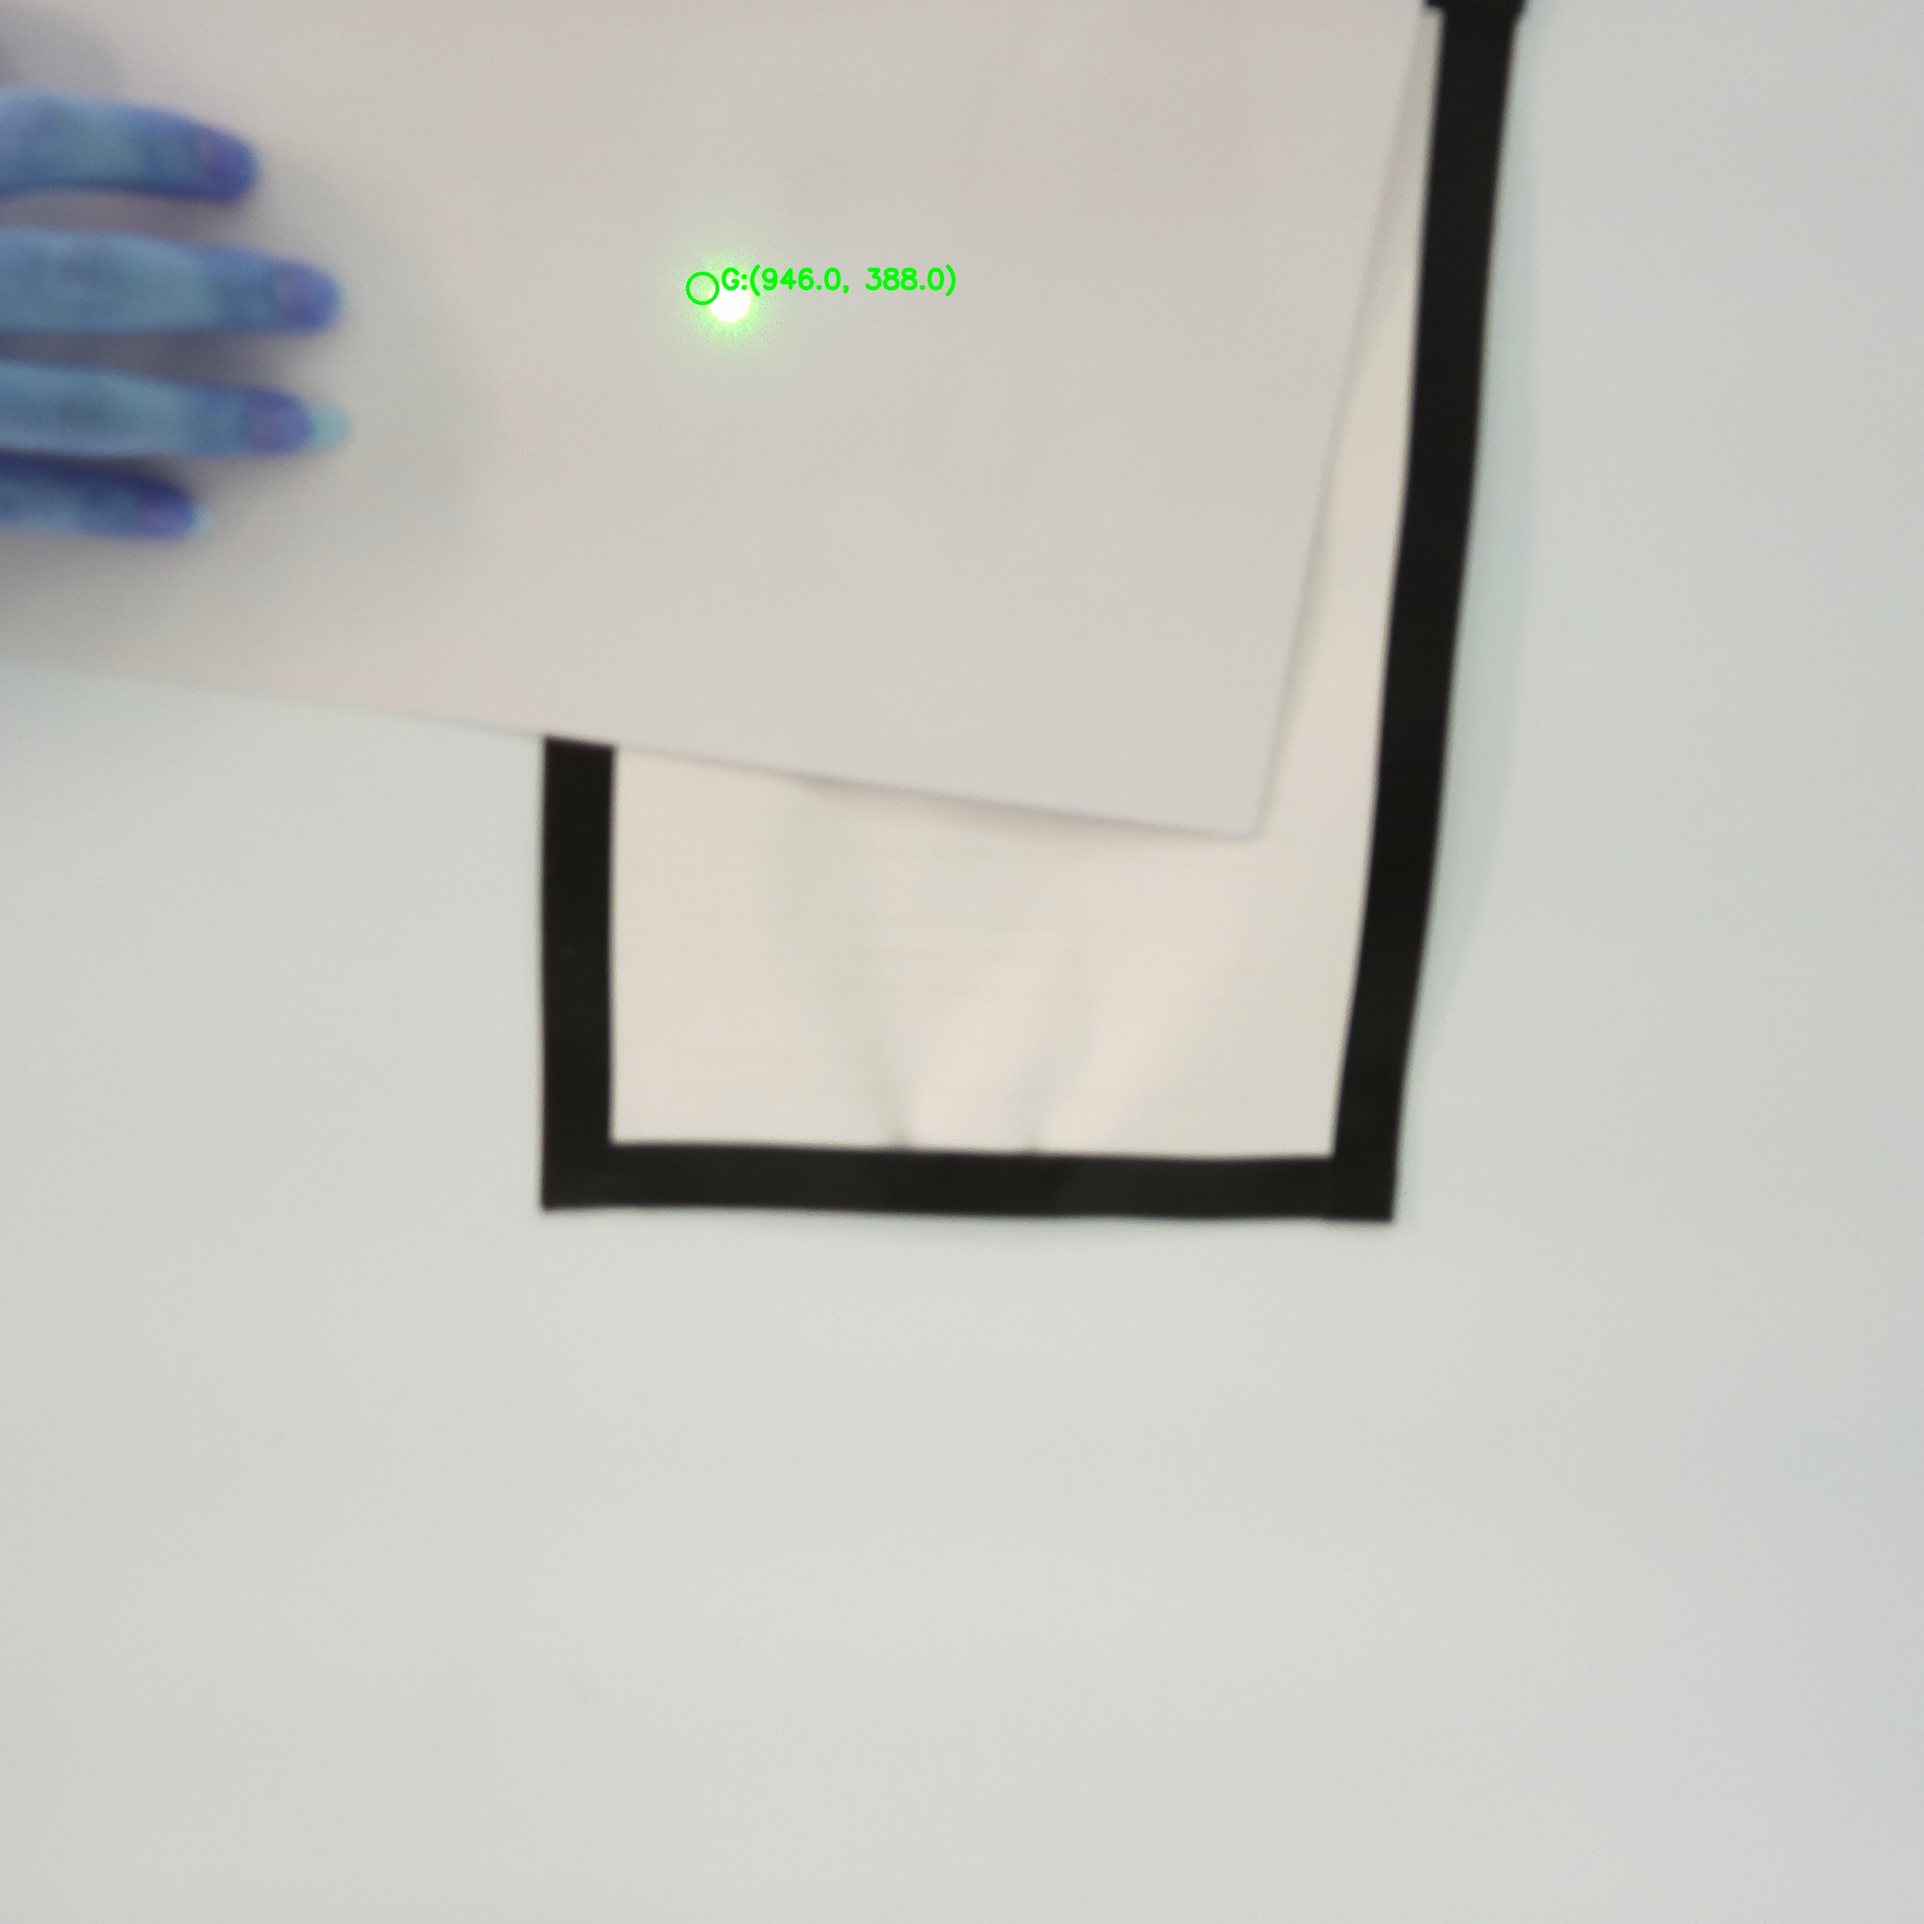
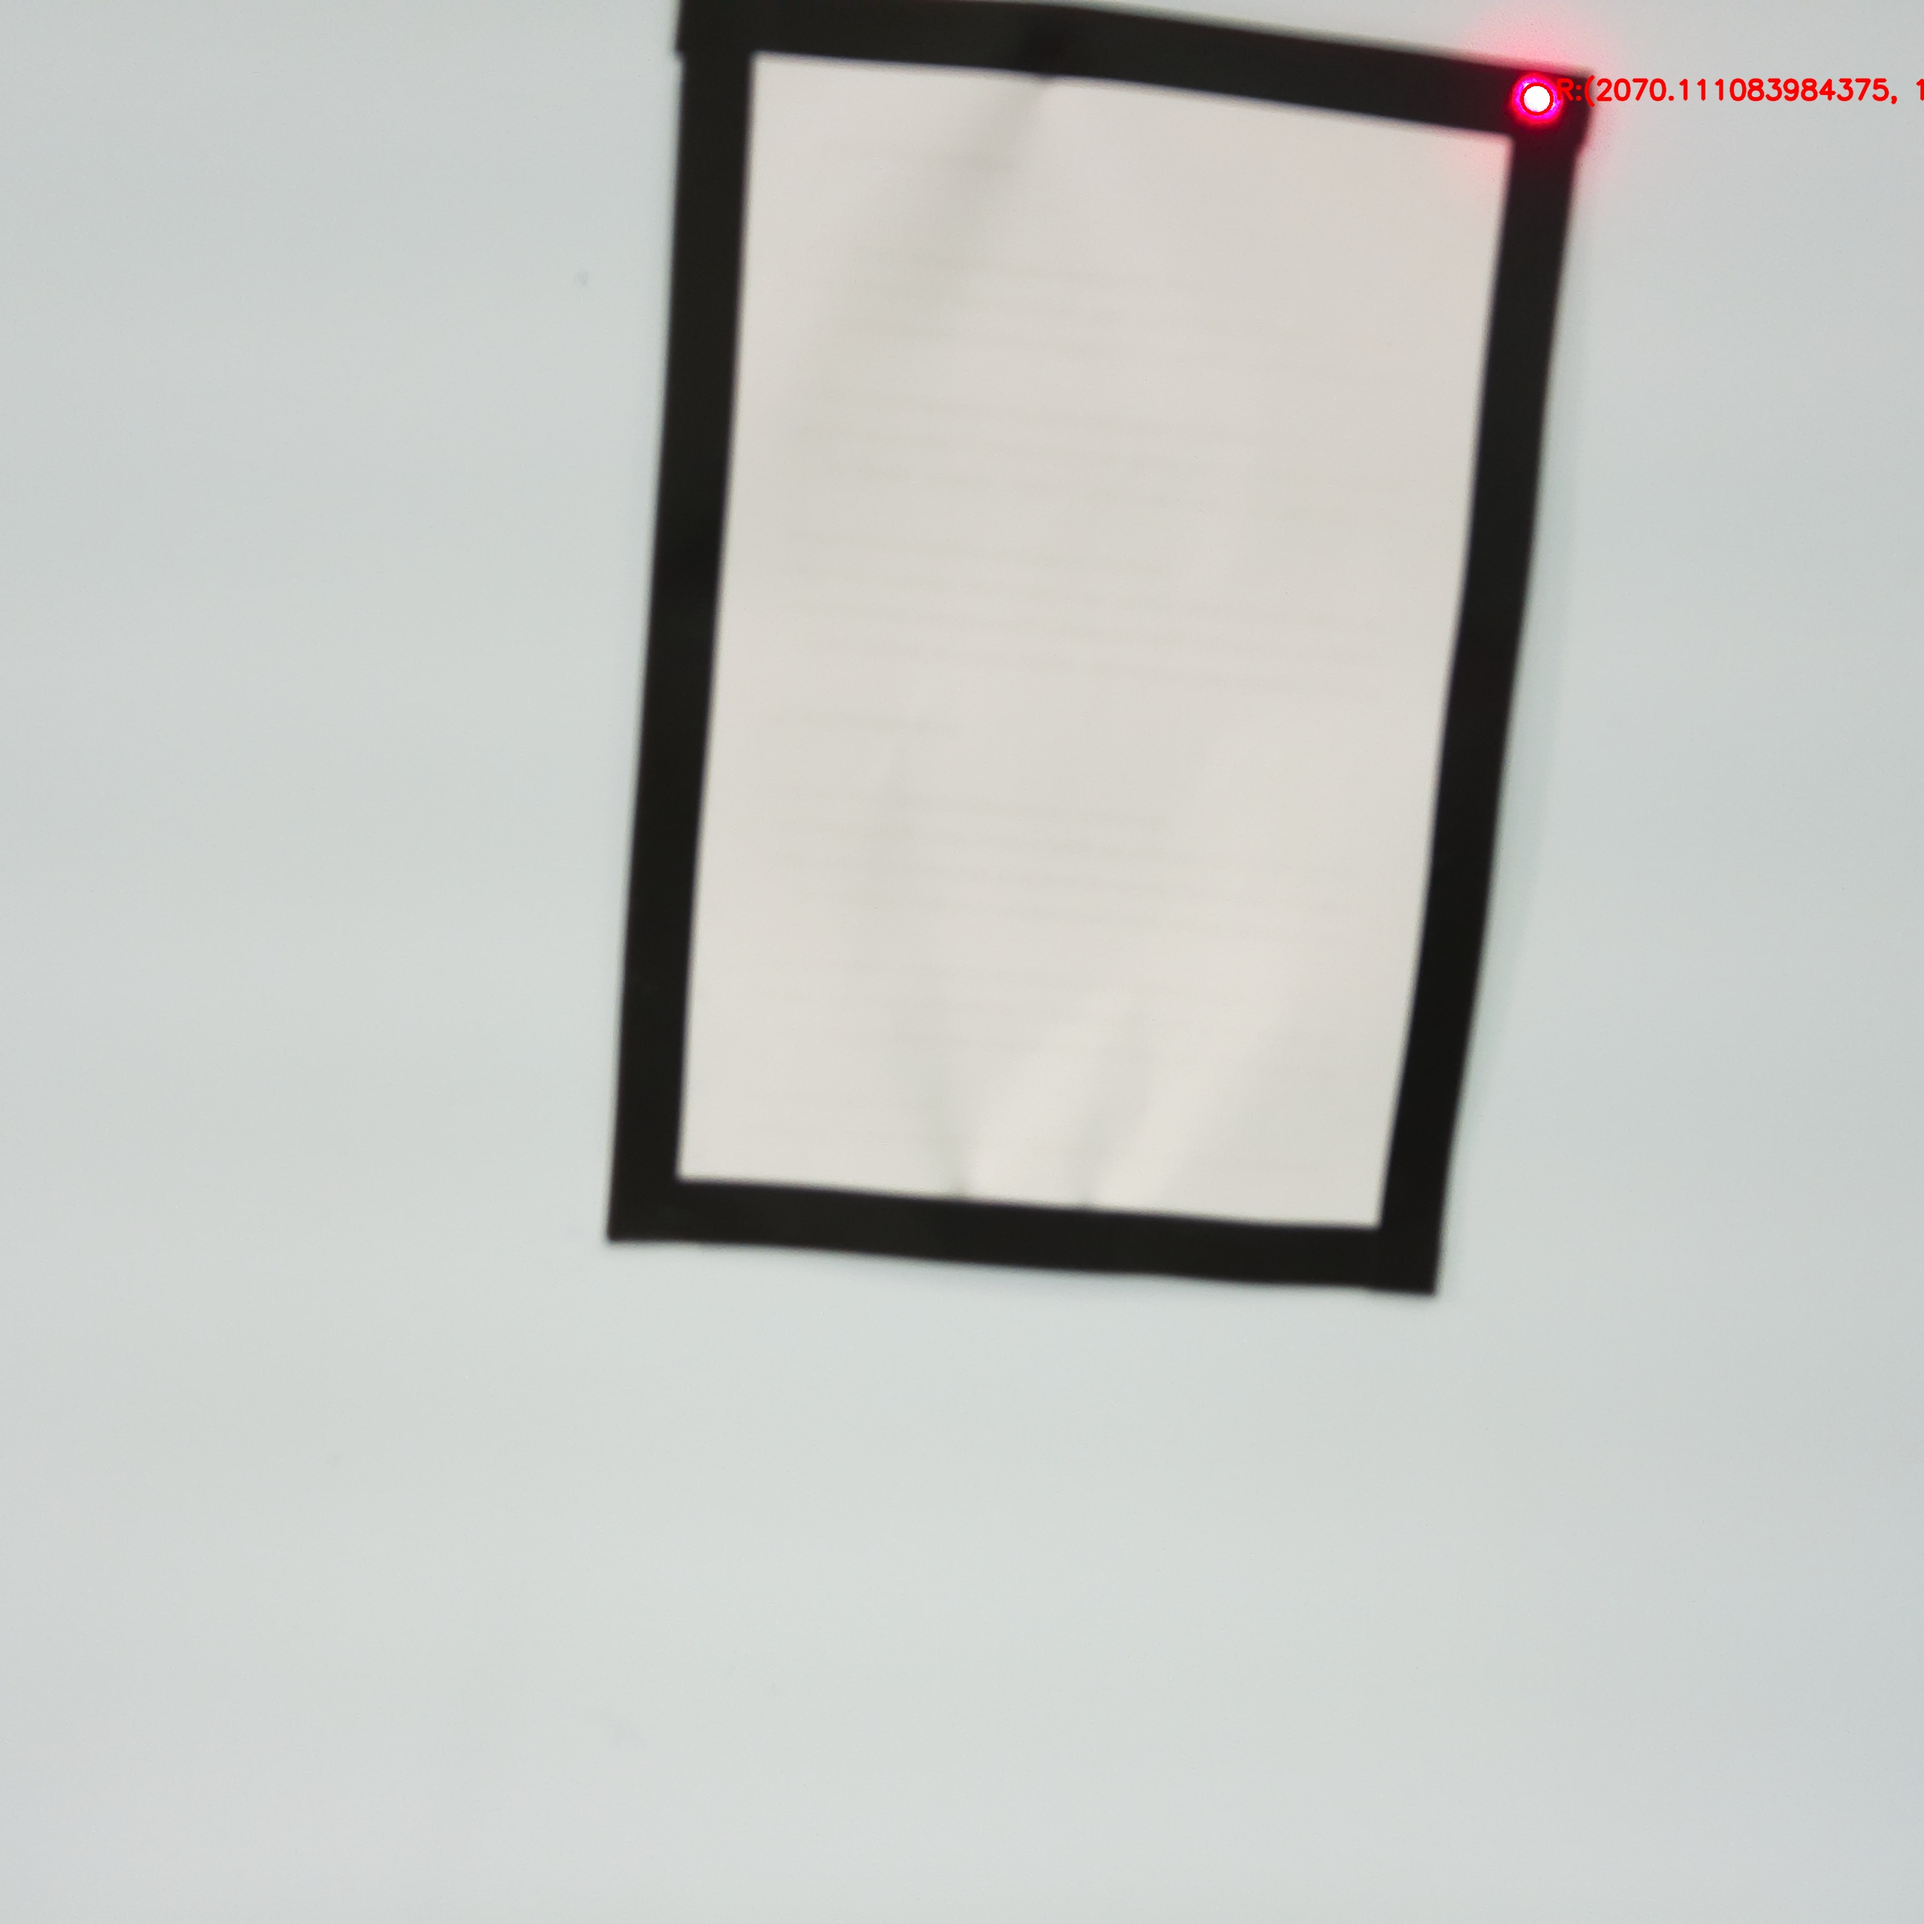
完善视觉激光检测

diff --git a/scripts/task/test.py b/scripts/task/test.py
@@ -1,0 +1,123 @@
+#!/usr/bin/env python3
+# -*- coding: utf-8 -*-
+"""
+capture_and_analyze_v.py
+------------------------
+使用树莓派 Picamera2 拍一张照片 → 裁剪成正方形 → 提取 HSV 的 V 通道并保存：
+  • v_channel_gray.png   —— 纯灰度亮度图
+  • v_channel_color.png  —— 伪彩色 + 颜色条
+  • v_values.csv         —— （可选）像素 V 值表
+可选同时保留原图 original.jpg 与裁剪图 cropped.jpg 以便调试。
+"""
+
+from typing import Tuple
+import time
+import cv2
+import numpy as np
+import matplotlib
+matplotlib.use("Agg")              # 关掉 GUI
+import matplotlib.pyplot as plt
+from picamera2 import Picamera2
+from pathlib import Path
+import argparse
+import sys
+
+# ---------- 工具函数 ----------
+def crop_image(img: np.ndarray, center: Tuple[int, int], width: int, height: int) -> np.ndarray:
+    """在 img 上按 (center, width, height) 裁剪并返回 ROI（新数组，不共享内存）"""
+    x, y = center
+    h, w = img.shape[:2]
+    w2, h2 = width // 2, height // 2
+    x1, y1 = max(0, x - w2), max(0, y - h2)
+    x2, y2 = min(w, x + w2), min(h, y + h2)
+    return img[y1:y2, x1:x2].copy()
+
+def capture_image(delay: float = 2.0) -> np.ndarray:
+    """使用 Picamera2 拍照并返回 ndarray (BGR)"""
+    cam = Picamera2()
+    cam.configure(cam.create_still_configuration())
+    cam.start()
+    time.sleep(delay)              # 让传感器和 AE 稳定
+    frame = cam.capture_array()    # 默认 RGB888
+    cam.close()
+    return cv2.cvtColor(frame, cv2.COLOR_RGB2BGR)
+
+# ---------- 主逻辑 ----------
+def main():
+    ap = argparse.ArgumentParser(description="Capture image, analyze V channel, save outputs.")
+    ap.add_argument("-o", "--outdir", default=".",
+                    help="输出目录（默认当前目录）")
+    ap.add_argument("--csv", action="store_true",
+                    help="同时保存 v_values.csv")
+    ap.add_argument("--keep-src", action="store_true",
+                    help="保留 original.jpg / cropped.jpg 以便调试")
+    ap.add_argument("--resize", type=int, default=480,
+                    help="裁剪后缩放到的边长像素，0=不缩放（默认 480）")
+
+    ap.add_argument("--v-th", type=int, default=240,
+                    help="阈值 (0–255)。V 值小于此值的像素会被置黑并另存图片")
+
+    args = ap.parse_args()
+
+    out_dir = Path(args.outdir)
+    out_dir.mkdir(parents=True, exist_ok=True)
+
+    # 1) 拍照
+    print("📷 Capturing image...")
+    original = capture_image()
+
+    # 2) 裁剪成正方形（取最短边）
+    h, w = original.shape[:2]
+    side = min(h, w)
+    cropped = crop_image(original, (w // 2, h // 2), side, side)
+
+    # 3) 可选缩放
+    if args.resize > 0:
+        cropped = cv2.resize(cropped, (args.resize, args.resize))
+
+    # 4) 保存调试图（可选）
+    if args.keep_src:
+        cv2.imwrite(str(out_dir / "original.jpg"), original)
+        cv2.imwrite(str(out_dir / "cropped.jpg"), cropped)
+
+    # 5) HSV ➜ V
+    v = cv2.cvtColor(cropped, cv2.COLOR_BGR2HSV)[:, :, 2]  # uint8 (0–255)
+
+    # 6) 保存灰度 PNG（V 值即亮度）
+    gray_png = out_dir / "v_channel_gray.png"
+    cv2.imwrite(str(gray_png), v)
+
+    # 7) 保存伪彩色 PNG（含颜色条）
+    plt.figure(figsize=(6, 6))
+    plt.imshow(v, cmap="viridis", vmin=0, vmax=255)
+    plt.axis("off")
+    cbar = plt.colorbar()
+    cbar.set_label("V value (0–255)")
+    plt.tight_layout()
+    color_png = out_dir / "v_channel_color.png"
+    plt.savefig(color_png, dpi=300)
+    plt.close()
+
+    # 7.5) 生成“低亮度置黑”图像
+    v_th = args.v_th
+    # 创建原图副本并在 BGR 空间掩蔽
+    masked_bgr = cropped.copy()
+    masked_bgr[v < v_th] = (0, 0, 0)          # BGR 置黑
+    th_png = out_dir / f"v_mask_below_{v_th}.png"
+    cv2.imwrite(str(th_png), masked_bgr)
+
+
+
+    # 8) 可选 CSV
+    extra = ""
+    if args.csv:
+        csv_path = out_dir / "v_values.csv"
+        np.savetxt(csv_path, v, fmt="%d", delimiter=",")
+        extra = f"、{csv_path.name}"
+
+    print(f"✅ 已保存 {gray_png.name}、{color_png.name}{extra} 到 {out_dir}")
+    print(f"✅ 已保存 {gray_png.name}、{color_png.name}、{th_png.name}{extra} 到 {out_dir}")
+
+
+if __name__ == "__main__":
+    main()

diff --git a/scripts/task/detect_laser.py b/scripts/task/detect_laser.py
@@ -6,12 +6,13 @@ import os
 
 # 定义HSV颜色阈值范围
 # 绿色激光HSV范围 (H约60度，S和V要求较高)
-LOWER_GREEN = np.array([40, 100, 50])   # 下界: H>=40, S>=100, V>=50
+LOWER_GREEN = np.array([40, 40, 235])   # 下界: H>=40, S>=100, 
 UPPER_GREEN = np.array([80, 255, 255])  # 上界: H<=80
+
 # 红色激光HSV范围需要考虑红色环绕Hue轴两端的情况
-LOWER_RED1 = np.array([0, 100, 50])     # 红色低Hue区间
-UPPER_RED1 = np.array([10, 255, 255])
-LOWER_RED2 = np.array([170, 100, 50])   # 红色高Hue区间
+LOWER_RED1 = np.array([0, 100, 235])     # 红色低Hue区间
+UPPER_RED1 = np.array([40, 255, 255])
+LOWER_RED2 = np.array([140, 100, 235])   # 红色高Hue区间
 UPPER_RED2 = np.array([180, 255, 255])
 
 def _detect_color_spot(frame, M, lower_bounds, upper_bounds, debug=False):
